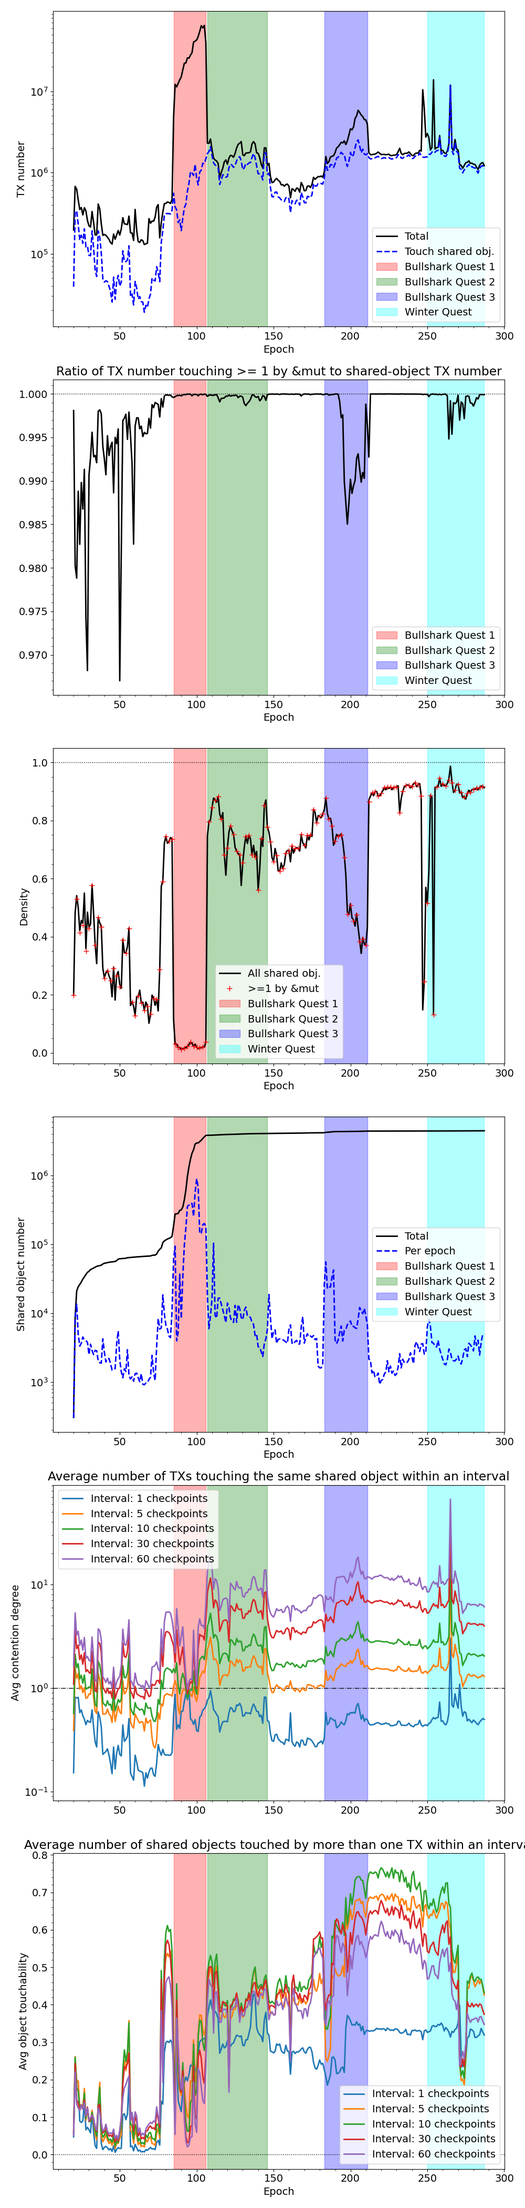
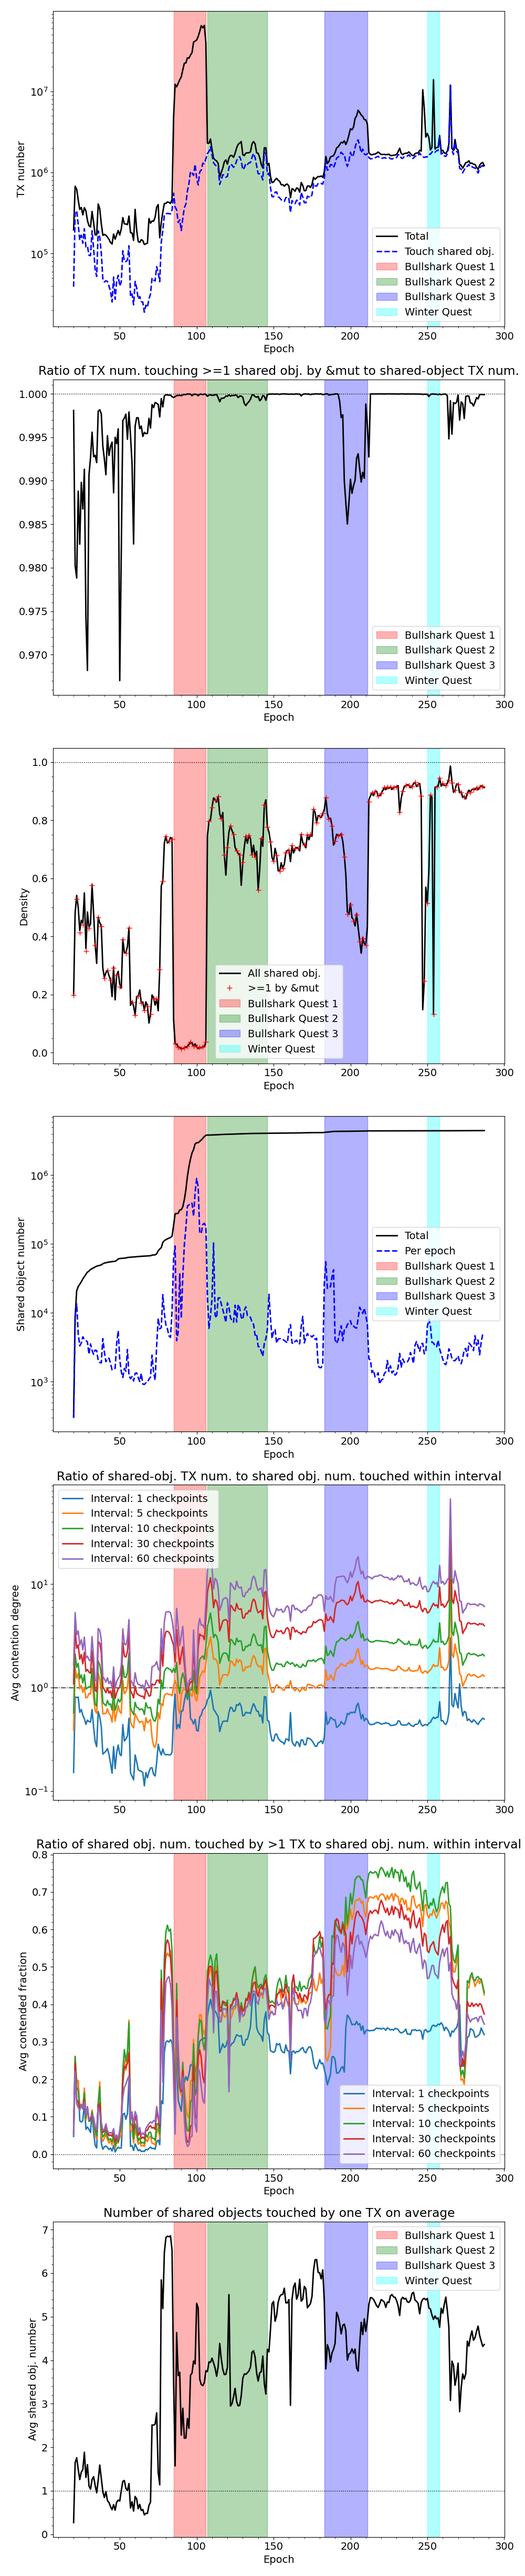
Add avg num of shared obj per tx

diff --git a/python/main.py b/python/main.py
@@ -3,7 +3,7 @@ import json
 import pandas as pd
 import matplotlib.pyplot as plt
 
-NUM_SUBPLOTS = 6
+NUM_SUBPLOTS = 7
 FILE = './../results/workspace1/epoch_density_data.json'
 with open(FILE, 'r') as f:
     json_ = json.load(f);
@@ -15,7 +15,7 @@ BULLSHARK_QUEST_2_END = 146
 BULLSHARK_QUEST_3_START = 183
 BULLSHARK_QUEST_3_END = 211
 WINTER_QUEST_START = 250
-WINTER_QUEST_END = list(json_['epochs'].keys())[-1] # TODO
+WINTER_QUEST_END = 258
 
 MARKER_EVERY = 5
 
@@ -96,7 +96,7 @@ print('Total number of scanned TXs: {}'.format(main_df['num_txs_total'].sum()))
 
 plt.rcParams.update({'font.size': 14, 'font.family': 'sans-serif'})
 
-fig, (ax1, ax2, ax3, ax4, ax6, ax7) = plt.subplots(nrows=NUM_SUBPLOTS, ncols=1, figsize=(10, NUM_SUBPLOTS * 7))
+fig, (ax1, ax2, ax3, ax4, ax5, ax6, ax7) = plt.subplots(nrows=NUM_SUBPLOTS, ncols=1, figsize=(10, NUM_SUBPLOTS * 7))
 
 
 # Plot the total number of TXs and number of TXs touching shared objects -----
@@ -161,7 +161,7 @@ plot_fig(
         quests=True,
         add_y1_line=True,
         xlabel='Epoch',
-        title='Ratio of TX number touching >= 1 by &mut to shared-object TX number',
+        title='Ratio of TX num. touching >=1 shared obj. by &mut to shared-object TX num.',
         minorticks=True,
         logscale=False,
         legend=True,
@@ -222,29 +222,52 @@ plot_fig(
 # ------------------------------------------------------------------------------
 
 
-ax6.axhline(y=0, linestyle=':', linewidth=1, color='black')
-ax6.axhline(y=1, linestyle='-.', linewidth=1, color='black')
+# Plot the average contention degree
+ax5.axhline(y=0, linestyle=':', linewidth=1, color='black')
+ax5.axhline(y=1, linestyle='-.', linewidth=1, color='black')
 for col in interval_df:
     if 'degree' in col:
-        ax6.plot(interval_df[col][20:], linewidth=2, label='Interval: {} checkpoints'.format(col.split('.')[0]))
-ax6.set_title('Average number of TXs touching the same shared object within an interval')
-ax6.set_ylabel('Avg contention degree')
-ax6.minorticks_on()
-ax6.set_yscale('log')
-plot_quests(ax=ax6, label=False)
-ax6.legend()
+        ax5.plot(interval_df[col][20:], linewidth=2, label='Interval: {} checkpoints'.format(col.split('.')[0]))
+ax5.set_title('Ratio of shared-obj. TX num. to shared obj. num. touched within interval')
+ax5.set_ylabel('Avg contention degree')
+ax5.minorticks_on()
+ax5.set_yscale('log')
+plot_quests(ax=ax5, label=False)
+ax5.legend()
+# ------------------------------------------------------------------------------
 
-ax7.axhline(y=0, linestyle=':', linewidth=1, color='black')
+
+# Plot the average contended fraction
+ax6.axhline(y=0, linestyle=':', linewidth=1, color='black')
 for col in interval_df:
     if not 'degree' in col:
-        ax7.plot(interval_df[col][20:], linewidth=2, label='Interval: {} checkpoints'.format(col.split('.')[0]))
-ax7.set_title('Average number of shared objects touched by more than one TX within an interval')
-ax7.set_xlabel('Epoch')
-ax7.set_ylabel('Avg object touchability')
-ax7.minorticks_on()
-# ax7.set_yscale('log')
-plot_quests(ax=ax7, label=False)
-ax7.legend()
+        ax6.plot(interval_df[col][20:], linewidth=2, label='Interval: {} checkpoints'.format(col.split('.')[0]))
+ax6.set_title('Ratio of shared obj. num. touched by >1 TX to shared obj. num. within interval')
+ax6.set_xlabel('Epoch')
+ax6.set_ylabel('Avg contended fraction')
+ax6.minorticks_on()
+# ax6.set_yscale('log')
+plot_quests(ax=ax6, label=False)
+ax6.legend()
+# ------------------------------------------------------------------------------
+
+
+# Plot the average number of shared objects per TX
+plot_fig(
+        ax=ax7,
+        y=main_df['num_shared_objects_per_tx'],
+        start_from=20,
+        quests=True,
+        add_y1_line=True,
+        xlabel='Epoch',
+        ylabel='Avg shared obj. number',
+        title='Number of shared objects touched by one TX on average',
+        minorticks=True,
+        logscale=False,
+        legend=True,
+)
+# ------------------------------------------------------------------------------
+
 
 fig.tight_layout()
 plt.savefig('./../results/workspace1/figure.png', format='png')

diff --git a/src/bin/density.rs b/src/bin/density.rs
@@ -9,7 +9,7 @@ use std::collections::{
 };
 use serde_json;
 use colored::Colorize;
-//use std::process::exit;
+use std::process::exit;
 
 use shared_object_density::args::density::*;
 use shared_object_density::types::*;
@@ -39,6 +39,7 @@ fn main() {
     };
 
     let mut txs_touching_at_least_one_shared_obj_by_mut: HashSet<String> = HashSet::new();
+    let mut tx_shared_obj_count_per_checkpoint: BTreeMap<String, u64> = BTreeMap::new();
 
     // auxiliary variables to calculate contention level
     let mut counts_per_interval: BTreeMap<u64, IntervalCounts> = args
@@ -79,6 +80,7 @@ fn main() {
                 num_txs_total: 0,
                 num_txs_touching_shared_objs: 0,
                 num_txs_touching_at_least_one_shared_obj_by_mut: 0,
+                num_shared_objects_per_tx: 0.0,
                 density: 0.0,
                 density_mut: 0.0,
                 num_shared_objects_per_epoch: 0,
@@ -175,10 +177,28 @@ fn main() {
                             .num_mut_refs += 1;
 
                         // collect unique txs that touch at least one shared object by mut ref
-                        txs_touching_at_least_one_shared_obj_by_mut.insert(tx_id);
+                        txs_touching_at_least_one_shared_obj_by_mut.insert(tx_id.clone());
                     }
+                    // insert new entry with TX ID and set count to 0
+                    tx_shared_obj_count_per_checkpoint
+                        .entry(tx_id.clone())
+                        .or_insert(0);
+                    *tx_shared_obj_count_per_checkpoint
+                        .get_mut(&tx_id.clone())
+                        .unwrap() += 1;
                 } // end of iterating over TX list
             } // end of iterating over objects within a checkpoint
+
+            // Update the average (accumulative) number of per TX
+            if tx_shared_obj_count_per_checkpoint.len() > 0 {
+                epochs_data
+                    .epochs
+                    .get_mut(&epoch)
+                    .unwrap()
+                    .num_shared_objects_per_tx += tx_shared_obj_count_per_checkpoint.values().sum::<u64>() as f64 / tx_shared_obj_count_per_checkpoint.len() as f64;
+            }
+            // clear the map for the next checkpoint
+            tx_shared_obj_count_per_checkpoint.clear();
 
             // Update the number of TXs touching at least one shared object by mut ref
             epochs_data
@@ -257,6 +277,12 @@ fn main() {
 
         // Calculate metrics per epoch
         //
+        // average number of shared objects per transaction
+        epochs_data
+            .epochs
+            .get_mut(&epoch)
+            .unwrap()
+            .num_shared_objects_per_tx /= epochs_data.epochs.get(&epoch).unwrap().num_checkpoints as f64;
         // Calculate density as the ratio of the number of TXs touching
         // shared objects to the total number of TXs per epoch
         epochs_data.epochs.get_mut(&epoch).unwrap().density = 

diff --git a/src/types/mod.rs b/src/types/mod.rs
@@ -71,6 +71,7 @@ pub struct EpochData {
     pub num_txs_total: usize,
     pub num_txs_touching_shared_objs: usize,
     pub num_txs_touching_at_least_one_shared_obj_by_mut: usize,
+    pub num_shared_objects_per_tx: f64,
     pub density: f64,
     pub density_mut: f64,
     pub num_shared_objects_per_epoch: usize,
